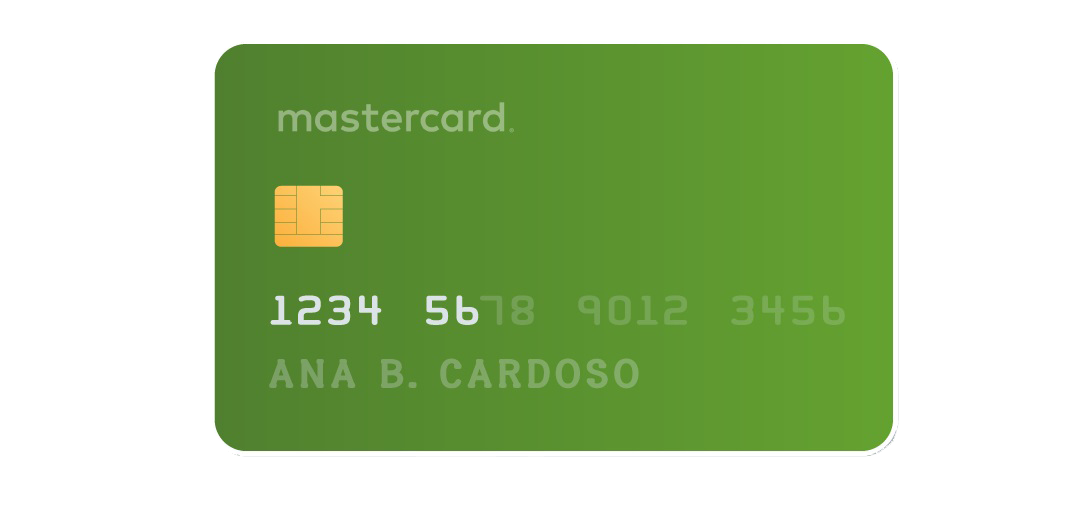
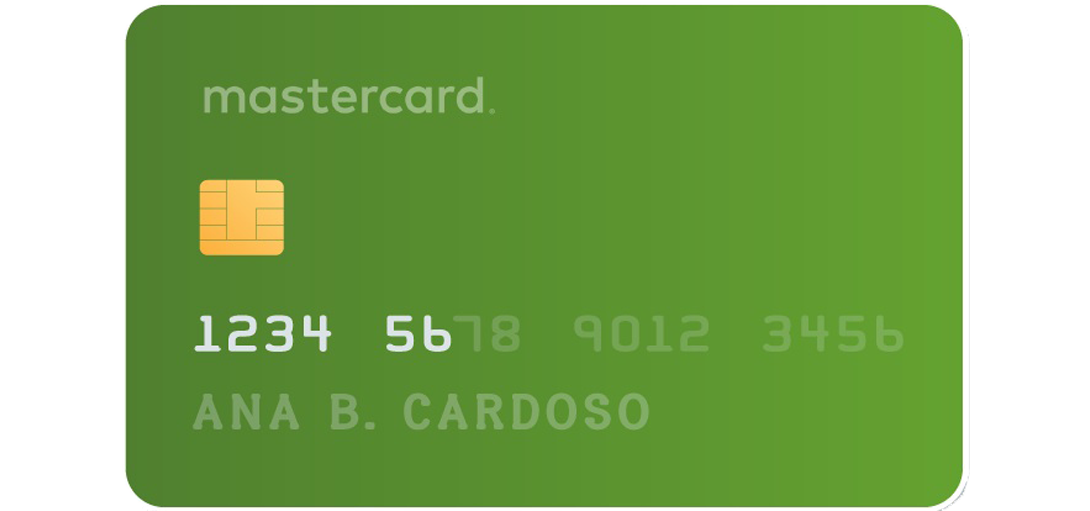
22/07

diff --git a/index.html b/index.html
@@ -15,11 +15,13 @@
         <a class="cabecalho_botoes" href="#">Perguntas</a>
     </header>
     <section class="sessao1">
-        <div class="sessao1__registro">
+        <div>
             <img class="sessao1__cartao" src="./imagens/cartão.png" alt="Imagem do cartão">
-            <p class="sessao1__texto">Cartão de crédito com anuidade zero. Facilidade e agilidade para você.</p>
-            <input class="sessao1__cpf" type="cpf" placeholder="DIGITE SEU CPF">
-            <a class="sessao1__botao" href="#">Continuar</a>
+            <div class="sessao1__caixa">
+                <p class="sessao1__texto">Cartão de crédito com anuidade zero. Facilidade e agilidade para você.</p>
+                <input class="sessao1__cpf" type="cpf" placeholder="DIGITE SEU CPF">
+                <a class="sessao1__botao" href="#">Continuar</a>
+            </div>
         </div>
         <img class="mulher" src="./imagens/mulher certa.png" alt="mulher feliz">
     </section>
@@ -41,44 +43,51 @@
             <img class="sessao3__img" src="./imagens/celular.png" alt="celular">
         </div>
     </section>
-    <footer>
-        <div>
-            <div>
-                <h5>Banco Forte</h5>
-                <a href="#">Sobre nós</a>
-                <a href="#">Perguntas frequentes</a>
-                <a href="#">Contato</a>
-                <a href="#">Investidores</a>
+    <footer class="rodape">
+        <div class="rodape__links">
+            <div class="rodape__lista">
+                <h5 class="rodape__titulo">Banco Forte</h5>
+                <a class="rodape__ancoras" href="#">Sobre nós</a>
+                <a class="rodape__ancoras" href="#">Perguntas frequentes</a>
+                <a class="rodape__ancoras" href="#">Contato</a>
+                <a class="rodape__ancoras" href="#">Investidores</a>
             </div>
-            <div>
-                <h5>Produtos</h5>
-                <a href="#">Conta digital</a>
-                <a href="#">Cartão de crédito</a>
-                <a href="#">Conta PJ</a>
-                <a href="#">Empréstimo</a>
+            <div class="rodape__lista">
+                <h5 class="rodape__titulo">Produtos</h5>
+                <a class="rodape__ancoras" href="#">Conta digital</a>
+                <a class="rodape__ancoras" href="#">Cartão de crédito</a>
+                <a class="rodape__ancoras" href="#">Conta PJ</a>
+                <a class="rodape__ancoras" href="#">Empréstimo</a>
             </div>
-            <div>
-                <h5>Explore</h5>
-                <a href="#">Comunidade</a>
-                <a href="#">Blog</a>
-                <a href="#">Tudo sobre o Pix</a>
-                <a href="#">Auxílio emergencial e FGTS</a>
+            <div class="rodape__lista">
+                <h5 class="rodape__titulo">Explore</h5>
+                <a class="rodape__ancoras" href="#">Comunidade</a>
+                <a class="rodape__ancoras" href="#">Blog</a>
+                <a class="rodape__ancoras" href="#">Tudo sobre o Pix</a>
+                <a class="rodape__ancoras" href="#">Auxílio emergencial e FGTS</a>
             </div>
-            <div>
-                <h5>Transparência</h5>
-                <a href="#">Política de privacidade</a>
-                <a href="#">Política de segurança</a>
-                <a href="#">Contratos</a>
-                <a href="#">Relatórios financeiros</a>
+            <div class="rodape__lista">
+                <h5 class="rodape__titulo">Transparência</h5>
+                <a class="rodape__ancoras" href="#">Política de privacidade</a>
+                <a class="rodape__ancoras" href="#">Política de segurança</a>
+                <a class="rodape__ancoras" href="#">Contratos</a>
+                <a class="rodape__ancoras" href="#">Relatórios financeiros</a>
             </div>
         </div>
-        <div>
-            <img src="./imagens/logo.png" alt="Logo do banco">
-            <h3>© 2023 Banco Forte Pagamentos S.A - Instituição de Pagamento. 00.000.000/0000-00</h3>
-            <h3>São Paulo, SP - 00000-000</h3>
-            <h4>Baixe o app</h4>
-            <img src="./imagens/android.png" alt="imagem android">
-            <img src="./imagens/app store.png" alt="imagem app store">
+
+        <hr>
+
+        <div class="rodape__info">
+            <img class="rodape__img" src="./imagens/logo.png" alt="Logo do banco">
+            <div>
+                <h3 class="rodape__info__texto">© 2023 Banco Forte Pagamentos S.A - Instituição de Pagamento. 00.000.000/0000-00</h3>
+                <h3 class="rodape__info__texto">São Paulo, SP - 00000-000</h3>
+            </div>
+            <div class="rodape__info__container">   
+                <h4>Baixe o app:</h4>
+                <img class="rodape__img__so" src="./imagens/android.png" alt="imagem android">
+                <img class="rodape__img__so" src="./imagens/app store.png" alt="imagem app store">
+            </div> 
         </div>
     </footer>
 </body>

diff --git a/styles/sessao3.css b/styles/sessao3.css
@@ -1,58 +1,61 @@
 .sessao3 {
     display: flex;
     background-color: var(--cor-fundo2);
-    width: 100vw;
-    height: 100vw;
-    grid-template-rows: 50% 50%;
+    justify-content: center;
+    padding: 5% 10%;
 }
 
 .sessao3__conteudo, .sessao3__conteudo2 {
-    align-self: center;
-    text-align: center;
-    
+    width: 587px;
+    height: 763px;
 }
 
 .sessao3__conteudo {
     background-color: var(--cor-fundo);
     display: flex;
     flex-direction: column;
-    gap: 2rem;
+    text-align: center;
 }
 
 .sessao3__conteudo2 {
     background-color: black;
-    display: flex;
-    flex-direction: column;
-    align-items: center;
-    gap: 8rem;
+    display: grid;
+    justify-items: end;
+    align-content: end;
 }
 
 .sessao3__titulo {
-    font-size: 18rem;
+    font-size: 14rem;
     font-family: var(--fonte);
     font-weight: 600;
+    margin-top: 8rem;
 }
 
 .sessao3__subtitulo {
     font-size: 3rem;
     font-family: var(--fonte);
     font-weight: 400;
+    margin: 8rem 0 2rem 0;
 }
 
 .sessao3__texto {
-    font-size: 2rem;
+    font-size: 1.5rem;
     font-family: var(--fonte);
     font-weight: 400;
+    margin: 0 5rem;
 }
 
 .sessao3__titulo2 {
+    margin: 15% 15% 8% 15%;
     color: var(--cor-fundo);
-    font-size: 4rem;
+    font-size: 3rem;
     font-family: var(--fonte);
     font-weight: 600;
     text-align: center;
+    text-transform: uppercase;
 }
 
 .sessao3__img {
-height: 542px;
+    height: 500px;
+    
 }

diff --git a/styles/sessao1.css b/styles/sessao1.css
@@ -1,21 +1,25 @@
 .sessao1 {
-    display: flex;
-    flex-direction: row;
     background-color: var(--cor-fundo2);
     height: 100%;
+    display: flex;
+    flex-direction: row;
+    text-align: center;
 }
 
 .sessao1__cartao {
-    margin-top: 10rem;
-    width: 90%;
+    width: 700px;
+    margin-top: 30%;
+    
 }
 
-.sessao1__registro {
-    display: flex;
-    flex-direction: column;
-    align-items: center;
+.sessao1__caixa {
+    background-color: var(--cor-fundo);
+    display: grid;
+    border-radius: 12px;
+    margin: 5% 20%;
+    padding: 2%;
+    justify-items: center;
     gap: 2rem;
-    margin: 2rem;
 }
 
 .sessao1__texto {
@@ -33,7 +37,6 @@
     background-color: var(--cor-verde-logo);
     padding: 1rem 2rem;
     color: var(--cor-fundo);
-    margin-bottom: 10%;
 }
 
 .sessao1__botao:hover {
@@ -45,9 +48,9 @@
 .sessao1__cpf {
     text-align: center;
     border-radius: 12px;
-    border: none;
+    border: 2px solid var(--cor-verde-logo);
     background-color: var(--cor-fundo);
-    width: 40%;
+    width: 60%;
     height: 2rem;
 }
 

diff --git a/styles/footer.css b/styles/footer.css
@@ -1,0 +1,57 @@
+.rodape {
+    background-color: var(--cor-fundo);
+    font-family: var(--fonte);
+}
+
+.rodape__links {
+    display: flex;
+    flex-direction: row;
+    margin: 0 10%;
+    justify-content: space-between;
+    padding: 3% 0;
+}
+
+.rodape__lista {
+    display: flex;
+    flex-direction: column;
+    justify-content: space-between;
+    gap: 1em;
+}
+
+.rodape__titulo {
+    font-size: 1.2rem;
+    font-weight: bold;
+}
+
+.rodape__ancoras {
+    text-decoration: none;
+    font-size: 1rem;
+    font-weight: bold;
+}
+
+.rodape__ancoras:hover {
+    color: var(--cor-verde-logo);
+}
+
+.rodape__info {
+    display:flex;
+    align-items: center;
+    padding: 1% 0;
+    margin: 0 10%;
+    justify-content: space-between;
+}
+
+.rodape__img {
+    width: 5%;
+}
+
+.rodape__info__container {
+    display: flex;
+    flex-direction: column;
+    gap: .5rem;
+    font-weight: bold;
+}
+
+.rodape__img__so {
+    width: 25%;
+}

diff --git a/style.css b/style.css
@@ -3,6 +3,7 @@
 @import url(./styles/header.css);
 @import url(./styles/sessao2.css);
 @import url(./styles/sessao3.css);
+@import url(./styles/footer.css);
 
 :root {
     

diff --git a/styles/sessao2.css b/styles/sessao2.css
@@ -13,7 +13,8 @@
 }
 
 .sessao2__titulo {
-    font-size: 2rem;
+    font-size: 3rem;
+    font-weight: bold;
 }
 
 .sessao2__texto {

diff --git a/styles/header.css b/styles/header.css
@@ -1,4 +1,5 @@
 .cabecalho {
+    height: 3rem;
     display: flex;
     flex-direction: row;
     align-items: center;
